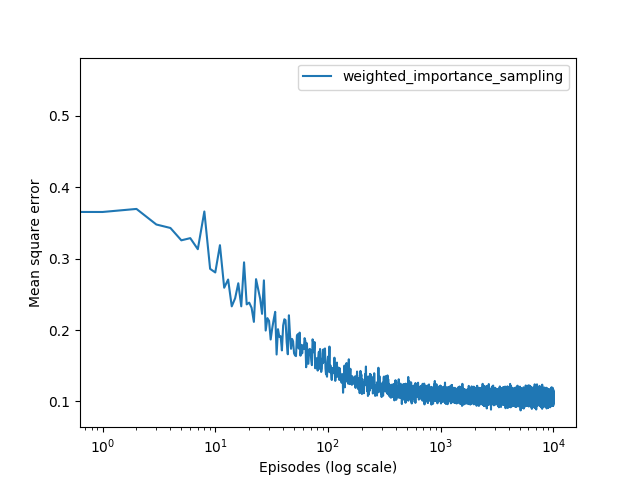
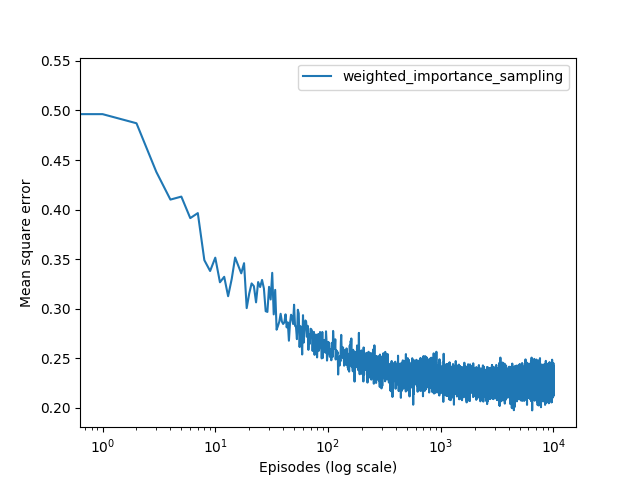
predict

diff --git a/rl/blackjack/off_policy/predict.py b/rl/blackjack/off_policy/predict.py
@@ -169,7 +169,8 @@ def run(count):
         states = episode.states()
         actions = episode.action()
         rewards = episode.reward()
-        for i in range(l):
+        for j in range(l):
+            i = l - j - 1
             if w == 0.0:
                 break
             g = 0.9 * g + rewards[i]
